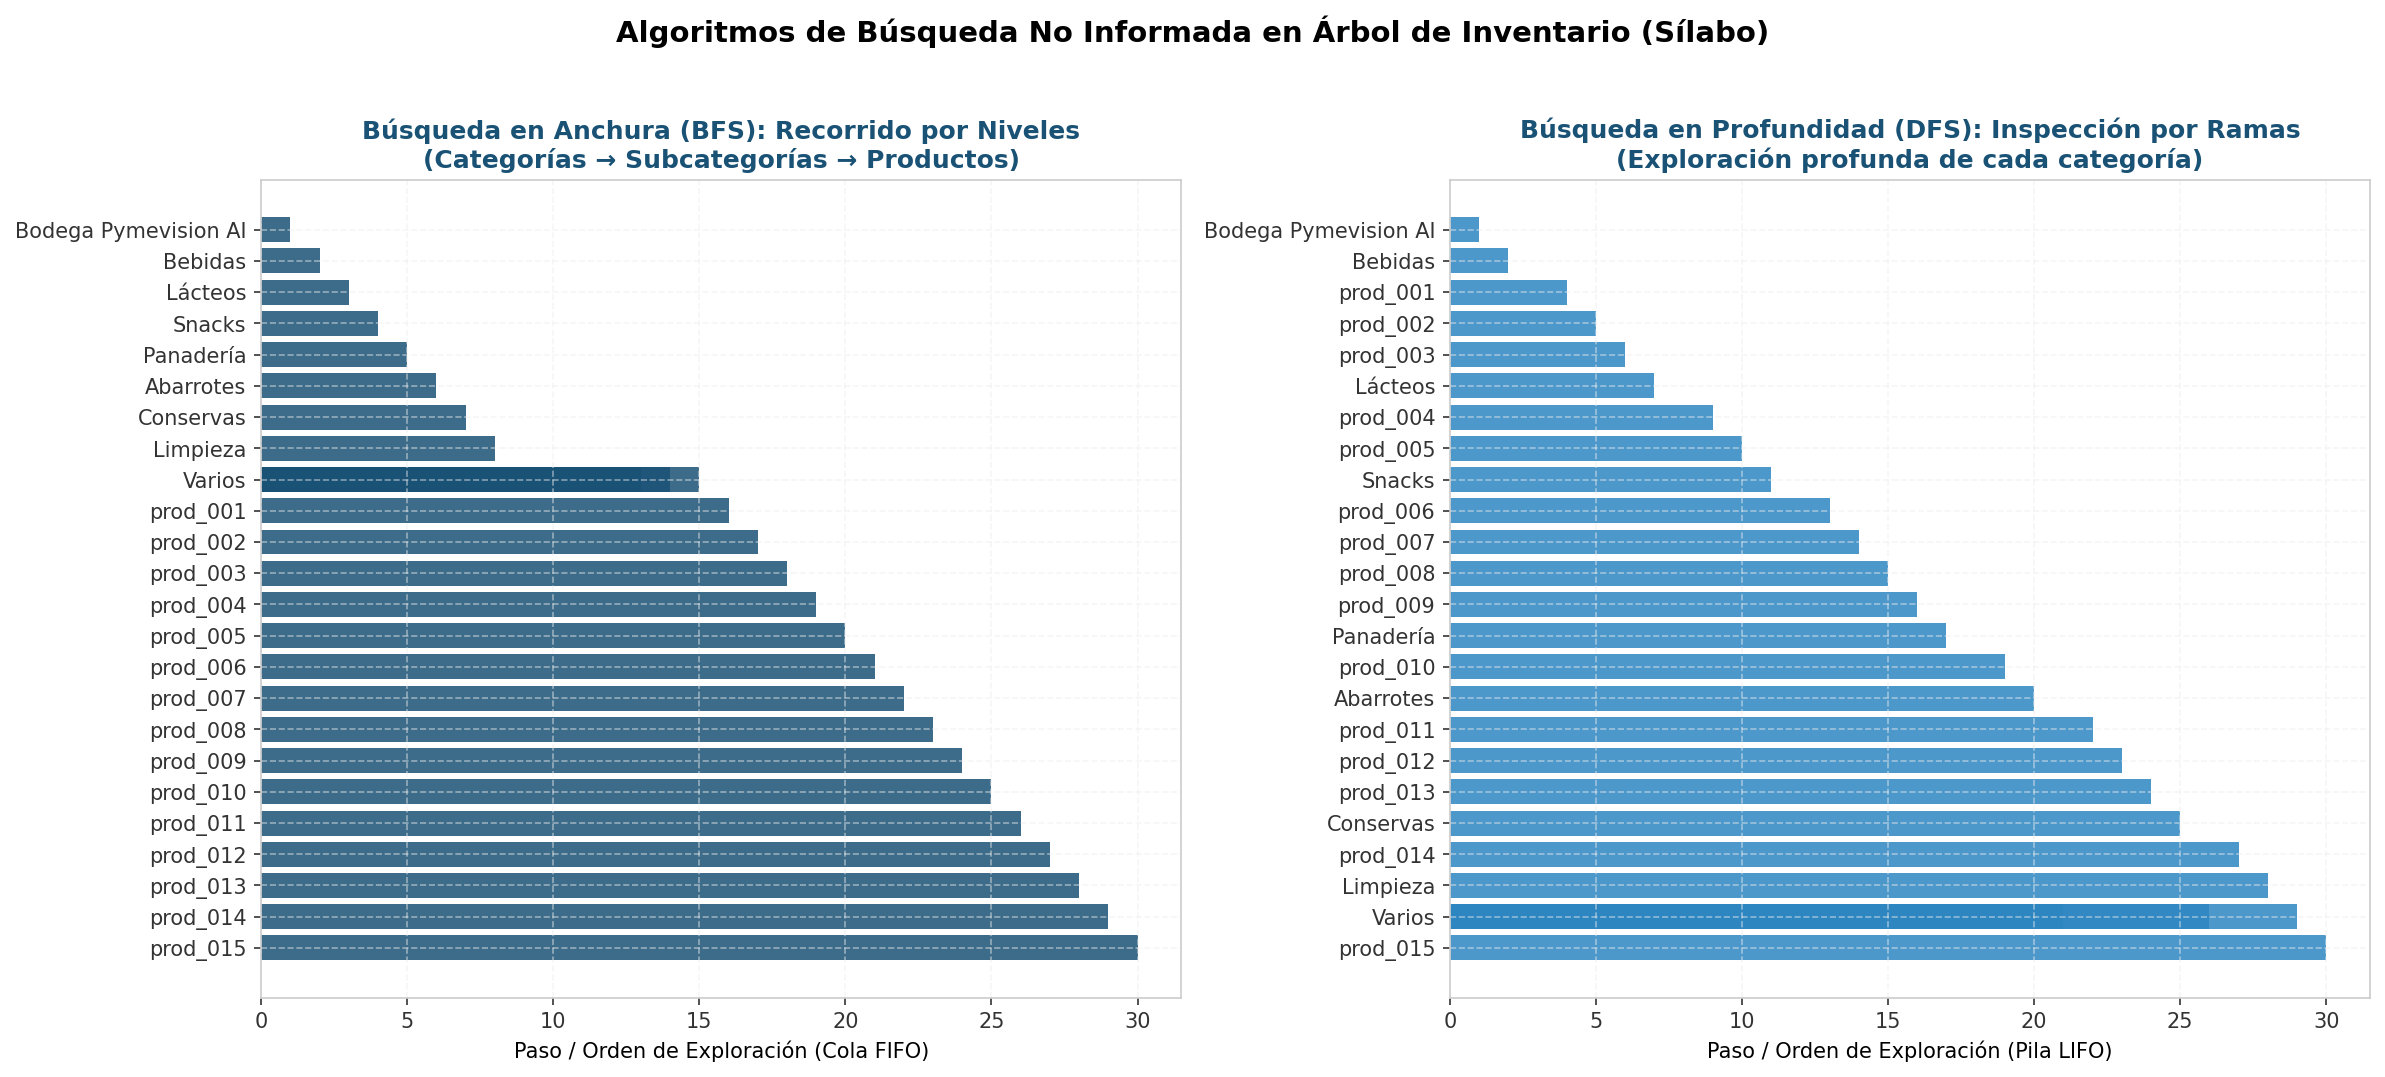
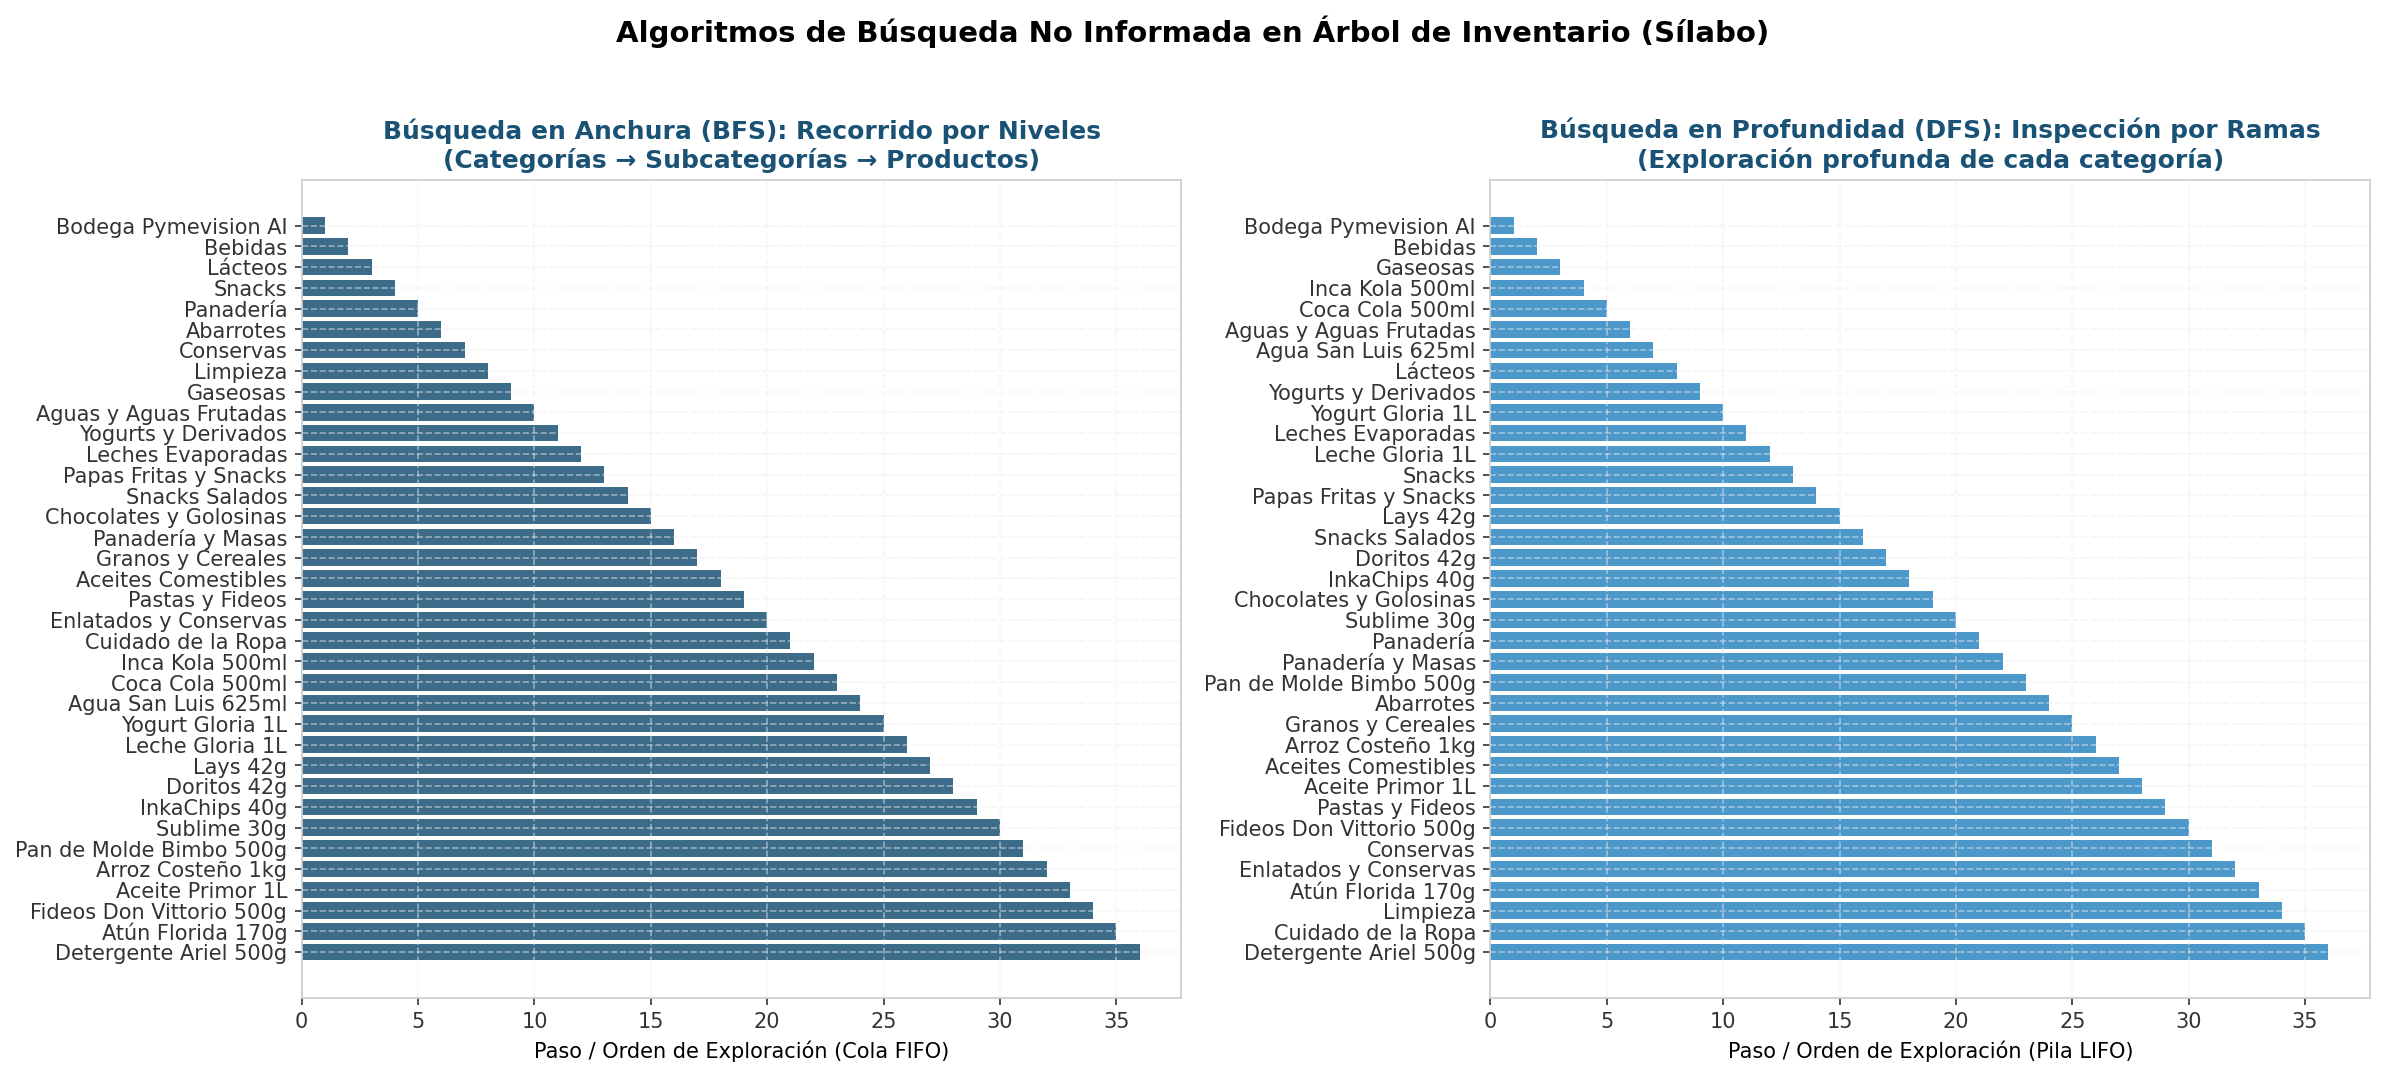
actualizacion del dfs bfs y sobre todo del a*

diff --git a/busqueda.py b/busqueda.py
@@ -181,81 +181,155 @@ class OptimizadorAEstrella:
         """
         return abs(p2[0] - p1[0]) + abs(p2[1] - p1[1])
 
-    def __init__(self, dimension_almacen=(10, 10)):
+    def __init__(self, dimension_almacen=(10, 10), df_inventario=None):
         self.filas, self.columnas = dimension_almacen
-        # Coordenadas predefinidas de los estantes de productos en el almacén (10x10)
         self.posiciones_estantes = {
             "Entrada / Recepcion": (0, 0),
-            "Inca Kola 500ml": (1, 2),
-            "Coca Cola 500ml": (1, 4),
-            "Agua San Luis 625ml": (1, 7),
-            "Yogurt Gloria 1L": (3, 2),
-            "Leche Gloria 1L": (3, 5),
-            "Lays 42g": (5, 1),
-            "Doritos 42g": (5, 3),
-            "InkaChips 40g": (5, 6),
-            "Sublime 30g": (5, 8),
-            "Pan de Molde Bimbo 500g": (7, 2),
-            "Arroz Costeño 1kg": (8, 1),
-            "Aceite Primor 1L": (8, 4),
-            "Fideos Don Vittorio 500g": (8, 6),
-            "Atún Florida 170g": (9, 3),
-            "Detergente Ariel 500g": (9, 7),
             "Zona de Despacho": (9, 9)
         }
+        if df_inventario is not None:
+            self.construir_mapa_desde_dataframe(df_inventario)
+        else:
+            # Mapa por defecto
+            self.posiciones_estantes.update({
+                "Inca Kola 500ml": (1, 2), "Coca Cola 500ml": (1, 4), "Agua San Luis 625ml": (1, 7),
+                "Yogurt Gloria 1L": (3, 2), "Leche Gloria 1L": (3, 5),
+                "Lays 42g": (5, 1), "Doritos 42g": (5, 3), "InkaChips 40g": (5, 6), "Sublime 30g": (5, 8),
+                "Pan de Molde Bimbo 500g": (7, 2), "Arroz Costeño 1kg": (8, 1), "Aceite Primor 1L": (8, 4),
+                "Fideos Don Vittorio 500g": (8, 6), "Atún Florida 170g": (9, 3), "Detergente Ariel 500g": (9, 7)
+            })
+
+    def construir_mapa_desde_dataframe(self, df_inventario):
+        """
+        Construye dinámicamente la ubicación de los estantes en la grilla del almacén (10x10)
+        a partir de los datos cargados del CSV de inventario por el Sensor.
+        """
+        self.posiciones_estantes = {
+            "Entrada / Recepcion": (0, 0),
+            "Zona de Despacho": (9, 9)
+        }
+        col_nombre = "producto_nombre" if "producto_nombre" in df_inventario.columns else "producto_id"
+        productos_unicos = df_inventario[col_nombre].dropna().unique()
+
+        # Asignar coordenadas fijas del mapa según el orden en el inventario
+        posiciones_disponibles = [
+            (1, 2), (1, 4), (1, 7),
+            (3, 2), (3, 5),
+            (5, 1), (5, 3), (5, 6), (5, 8),
+            (7, 2), (8, 1), (8, 4), (8, 6),
+            (9, 3), (9, 7)
+        ]
+        for idx, prod in enumerate(productos_unicos):
+            if idx < len(posiciones_disponibles):
+                self.posiciones_estantes[prod] = posiciones_disponibles[idx]
+            else:
+                f = 1 + (idx // 4) * 2
+                c = 1 + (idx % 4) * 2
+                self.posiciones_estantes[prod] = (min(f, 9), min(c, 9))
 
     def resolver_ruta_reabastecimiento(self, lista_productos_criticos):
         """
-        Encuentra la secuencia y ruta óptima en el almacén para reabastecer/recolectar
-        los productos en estado crítico utilizando A*.
+        Encuentra la secuencia de reabastecimiento/picking y la ruta óptima en el almacén
+        utilizando A* secuencial de múltiples etapas con Heurística de Vecino Más Cercano (Nearest Neighbor).
+        
+        Lógica:
+        1. Inicia en Entrada / Recepción (0,0).
+        2. Selecciona dinámicamente el estante de producto no visitado más cercano (menor Distancia Manhattan).
+        3. Navega hacia ese estante usando A* (f(n) = g(n) + h(n), con h(n) hacia el objetivo de esa etapa).
+        4. Repite el proceso hasta visitar todos los productos críticos en alerta.
+        5. En la etapa final, navega desde el último producto visitado hacia la Zona de Despacho (9,9).
         """
         if not lista_productos_criticos:
             lista_productos_criticos = ["Inca Kola 500ml", "Leche Gloria 1L", "Arroz Costeño 1kg"]
 
         origen = "Entrada / Recepcion"
         destino_final = "Zona de Despacho"
+        pos_destino_final = self.posiciones_estantes.get(destino_final, (9, 9))
+        pos_origen = self.posiciones_estantes.get(origen, (0, 0))
 
-        puntos_a_visitar = [origen] + [p for p in lista_productos_criticos if p in self.posiciones_estantes] + [destino_final]
+        # Filtrar productos válidos en el almacén
+        pendientes = [p for p in lista_productos_criticos if p in self.posiciones_estantes and p not in (origen, destino_final)]
+        if not pendientes:
+            pendientes = [p for p in ["Inca Kola 500ml", "Leche Gloria 1L", "Arroz Costeño 1kg"] if p in self.posiciones_estantes]
 
         camino_completo_coordenadas = []
         secuencia_nodos = []
         costo_g_acumulado = 0.0
-        heuristica_h_acumulada = 0.0
-        evaluacion_f_acumulada = 0.0
 
-        for i in range(len(puntos_a_visitar) - 1):
-            inicio_nombre = puntos_a_visitar[i]
-            meta_nombre = puntos_a_visitar[i+1]
-            pos_inicio = self.posiciones_estantes[inicio_nombre]
-            pos_meta = self.posiciones_estantes[meta_nombre]
+        pos_actual = pos_origen
+        actual_nombre = origen
 
-            sub_camino, g_sub, h_sub, f_sub = self._astar_punto_a_punto(pos_inicio, pos_meta)
+        # Heurística inicial desde (0,0) hacia el primer producto más cercano
+        if pendientes:
+            primer_producto = min(pendientes, key=lambda p: self.distancia_manhattan(pos_origen, self.posiciones_estantes[p]))
+            h_inicial = self.distancia_manhattan(pos_origen, self.posiciones_estantes[primer_producto])
+        else:
+            h_inicial = self.distancia_manhattan(pos_origen, pos_destino_final)
+
+        # Etapas de picking: visitar todos los productos pendientes por Nearest Neighbor
+        while pendientes:
+            proximo_nombre = min(pendientes, key=lambda p: self.distancia_manhattan(pos_actual, self.posiciones_estantes[p]))
+            pos_proximo = self.posiciones_estantes[proximo_nombre]
+            pendientes.remove(proximo_nombre)
+
+            sub_camino, g_sub, _, _ = self._astar_punto_a_punto(pos_actual, pos_proximo)
 
             if camino_completo_coordenadas:
                 camino_completo_coordenadas.extend(sub_camino[1:])
             else:
                 camino_completo_coordenadas.extend(sub_camino)
 
+            costo_g_acumulado += g_sub
+
+            if pendientes:
+                siguiente_temp = min(pendientes, key=lambda p: self.distancia_manhattan(pos_proximo, self.posiciones_estantes[p]))
+                h_nodo = self.distancia_manhattan(pos_proximo, self.posiciones_estantes[siguiente_temp])
+            else:
+                h_nodo = self.distancia_manhattan(pos_proximo, pos_destino_final)
+
+            f_nodo = costo_g_acumulado + h_nodo
+
             secuencia_nodos.append({
-                "desde": inicio_nombre,
-                "hacia": meta_nombre,
-                "pos_desde": pos_inicio,
-                "pos_hacia": pos_meta,
-                "costo_g": g_sub,
-                "heuristica_h": h_sub,
-                "evaluacion_f": f_sub
+                "desde": actual_nombre,
+                "hacia": proximo_nombre,
+                "pos_desde": pos_actual,
+                "pos_hacia": pos_proximo,
+                "costo_g": costo_g_acumulado,
+                "heuristica_h": h_nodo,
+                "evaluacion_f": f_nodo
             })
 
-            costo_g_acumulado += g_sub
-            heuristica_h_acumulada += h_sub
-            evaluacion_f_acumulada += f_sub
+            pos_actual = pos_proximo
+            actual_nombre = proximo_nombre
+
+        # Etapa final: desde el último producto hacia Zona de Despacho (9,9)
+        sub_camino_final, g_final_sub, _, _ = self._astar_punto_a_punto(pos_actual, pos_destino_final)
+        if camino_completo_coordenadas:
+            camino_completo_coordenadas.extend(sub_camino_final[1:])
+        else:
+            camino_completo_coordenadas.extend(sub_camino_final)
+
+        costo_g_acumulado += g_final_sub
+        h_final = 0
+
+        secuencia_nodos.append({
+            "desde": actual_nombre,
+            "hacia": destino_final,
+            "pos_desde": pos_actual,
+            "pos_hacia": pos_destino_final,
+            "costo_g": costo_g_acumulado,
+            "heuristica_h": h_final,
+            "evaluacion_f": costo_g_acumulado + h_final
+        })
 
         return {
             "secuencia_nodos": secuencia_nodos,
             "camino_coordenadas": camino_completo_coordenadas,
             "costo_g_total": costo_g_acumulado,
-            "heuristica_h_total": heuristica_h_acumulada,
-            "evaluacion_f_total": evaluacion_f_acumulada
+            "heuristica_h_total": h_inicial,
+            "heuristica_h_inicial": h_inicial,
+            "evaluacion_f_inicial": h_inicial,
+            "evaluacion_f_total": costo_g_acumulado
         }
 
     def _astar_punto_a_punto(self, pos_inicio, pos_meta):
@@ -308,10 +382,24 @@ class OptimizadorAEstrella:
         """
         alertas_criticas = [a for a in lista_alertas if a.get("gravedad") in ["ALTA", "CRITICA", "MEDIA"]]
 
+        mapa_nombres = {
+            "prod_001": "Inca Kola 500ml", "prod_002": "Coca Cola 500ml", "prod_003": "Agua San Luis 625ml",
+            "prod_004": "Yogurt Gloria 1L", "prod_005": "Leche Gloria 1L",
+            "prod_006": "Lays 42g", "prod_007": "Doritos 42g", "prod_008": "InkaChips 40g", "prod_009": "Sublime 30g",
+            "prod_010": "Pan de Molde Bimbo 500g",
+            "prod_011": "Arroz Costeño 1kg", "prod_012": "Aceite Primor 1L", "prod_013": "Fideos Don Vittorio 500g",
+            "prod_014": "Atún Florida 170g", "prod_015": "Detergente Ariel 500g"
+        }
+
         ordenes_priorizadas = []
         for a in alertas_criticas:
             prod_id = a.get("producto_id", "Desconocido")
-            prod_nombre = a.get("producto_nombre", prod_id)
+            prod_nombre = a.get("producto_nombre", mapa_nombres.get(prod_id, prod_id))
+            if prod_nombre in mapa_nombres:
+                prod_nombre = mapa_nombres[prod_nombre]
+            elif prod_id in mapa_nombres:
+                prod_nombre = mapa_nombres[prod_id]
+
             tipo = a.get("tipo", "GENERAL")
             prob_riesgo = a.get("probabilidad_bayesiana", 0.5)
 

diff --git a/reportador.py b/reportador.py
@@ -801,6 +801,8 @@ def graficar_ruta_reabastecimiento_astar(resultado_astar, directorio="reportes")
         ys = [p[0] for p in camino]
         ax.plot(xs, ys, color=COLOR_ALERTA_ALTA, linewidth=3.5, linestyle="-", marker="o", markersize=6, label="Ruta Óptima A*")
 
+    h_init = ruta_data.get("heuristica_h_inicial", 18)
+
     # Dibujar puntos de estantes y secuencia
     for paso in secuencia:
         pos_f = paso["pos_hacia"]
@@ -816,12 +818,12 @@ def graficar_ruta_reabastecimiento_astar(resultado_astar, directorio="reportes")
 
     # Marcar origen (0,0)
     ax.scatter(0, 0, color=COLOR_EXITO, s=250, zorder=6, label="Recepción / Inicio (0,0)")
-    ax.text(0.15, -0.2, "INICIO (0,0)", fontsize=9, fontweight="bold", color=COLOR_EXITO)
+    ax.text(0.15, -0.25, f"INICIO (0,0)\nf={h_init:.0f} (g=0+h={h_init:.0f})", fontsize=8, fontweight="bold", color=COLOR_EXITO)
 
-    ax.set_title(f"Optimización de Ruta Logística con Algoritmo A*\n"
-                 f"Función f(n) = g(n) + h(n) | Distancia Manhattan (Paarth Sonkiya 2024)\n"
-                 f"Costo Total Recorrido g(n) = {ruta_data['costo_g_total']:.0f} | Heurística Acumulada h(n) = {ruta_data['heuristica_h_total']:.0f}",
-                 fontsize=12, fontweight="bold", color=COLOR_PRIMARIO, pad=15)
+    ax.set_title(f"Optimización de Ruta Logística de Picking con A* (Secuencial Multi-Objetivo - Nearest Neighbor)\n"
+                 f"Función f(n) = g(n) + h(n) | Distancia Manhattan a próximo objetivo (Paarth Sonkiya 2024)\n"
+                 f"Costo Total Recorrido g(n) = {ruta_data['costo_g_total']:.0f} | Heurística Inicial h(0,0) = {h_init:.0f}",
+                 fontsize=11, fontweight="bold", color=COLOR_PRIMARIO, pad=15)
 
     ax.set_xlabel("Pasillos / Coordenada Y (Almacén)", fontsize=10)
     ax.set_ylabel("Estantes / Coordenada X (Almacén)", fontsize=10)

diff --git a/principal.py b/principal.py
@@ -789,11 +789,12 @@ def generar_reporte_escrito_final(inventario_actual, alertas, predicciones, dato
             ruta_data = astar_res["ruta_reabastecimiento_astar"]
             ordenes_astar = astar_res["ordenes_priorizadas_astar"]
             
-            archivo.write("9.2 Algoritmo de Búsqueda Informada A* (Paarth Sonkiya, 2024):\n")
-            archivo.write("  * Función de Evaluación: f(n) = g(n) + h(n)\n")
-            archivo.write("  * Heurística h(n): Distancia Manhattan d(P1, P2) = |x2 - x1| + |y2 - y1|\n")
-            archivo.write(f"  * Costo Real Acumulado g(n)             : {ruta_data['costo_g_total']:.2f}\n")
-            archivo.write(f"  * Costo Heurístico Acumulado h(n)       : {ruta_data['heuristica_h_total']:.2f}\n")
+            archivo.write("9.2 Algoritmo de Búsqueda Informada A* Secuencial Multi-Objetivo (Paarth Sonkiya, 2024):\n")
+            archivo.write("  * Estrategia: Ruta de Picking con Heurística de Vecino Más Cercano (Nearest Neighbor) + A*\n")
+            archivo.write("  * Función de Evaluación: f(n) = g(n) + h(n) en cada etapa de recorrido\n")
+            archivo.write("  * Heurística h(n): Distancia Manhattan d(n, próximo_estante) = |x - x_obj| + |y - y_obj|\n")
+            archivo.write(f"  * Costo Real Acumulado Total g(n)       : {ruta_data['costo_g_total']:.2f}\n")
+            archivo.write(f"  * Heurística Inicial h(0,0)             : {ruta_data.get('heuristica_h_inicial', 18):.2f}\n")
             archivo.write(f"  * Evaluación Total de Ruta f(n)         : {ruta_data['evaluacion_f_total']:.2f}\n\n")
             
             archivo.write("9.3 Priorización Estratégica de Pedidos (A* Ranking f(n)):\n")

diff --git a/actuador.py b/actuador.py
@@ -194,7 +194,7 @@ class ActuadorOptimizado:
         2. Optimización de la ruta de reabastecimiento en almacén usando Distancia Manhattan.
         """
         from busqueda import OptimizadorAEstrella
-        optimizador = OptimizadorAEstrella()
+        optimizador = OptimizadorAEstrella(df_inventario=df_inventario)
 
         # 1. Priorización estratégica de órdenes de compra
         ordenes_priorizadas = optimizador.priorizar_ordenes_compra_astar(lista_alertas)